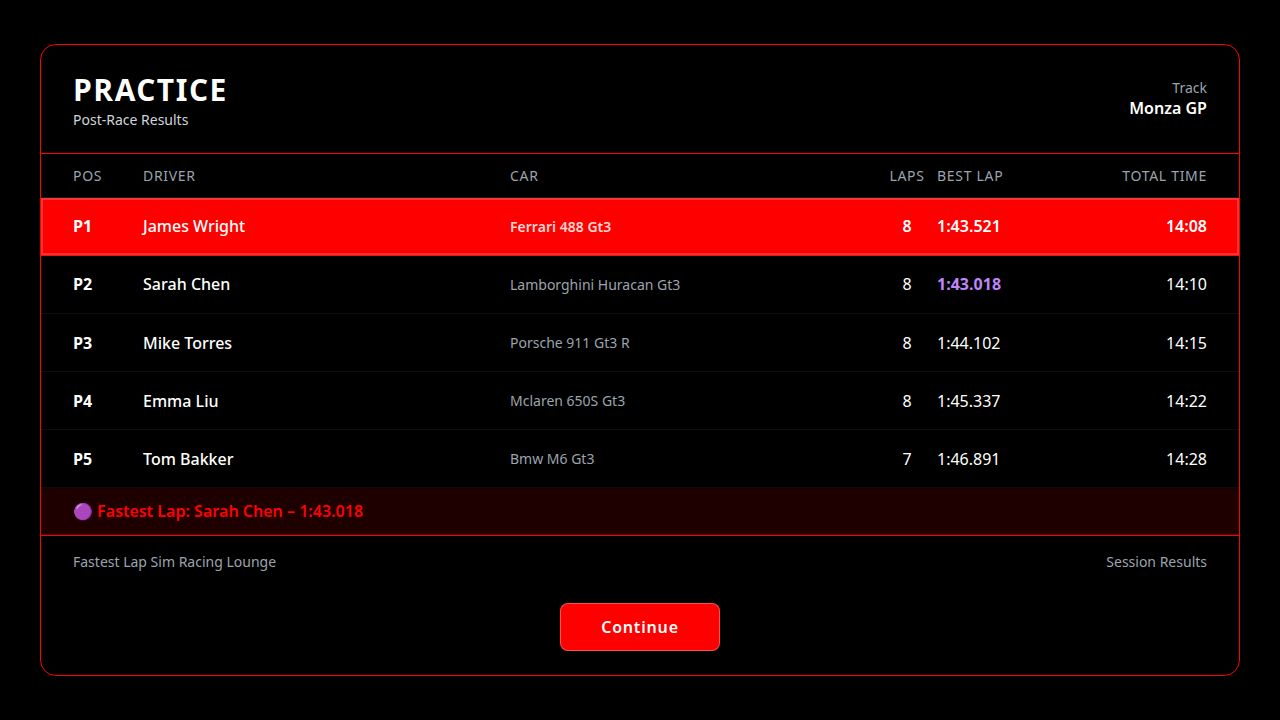
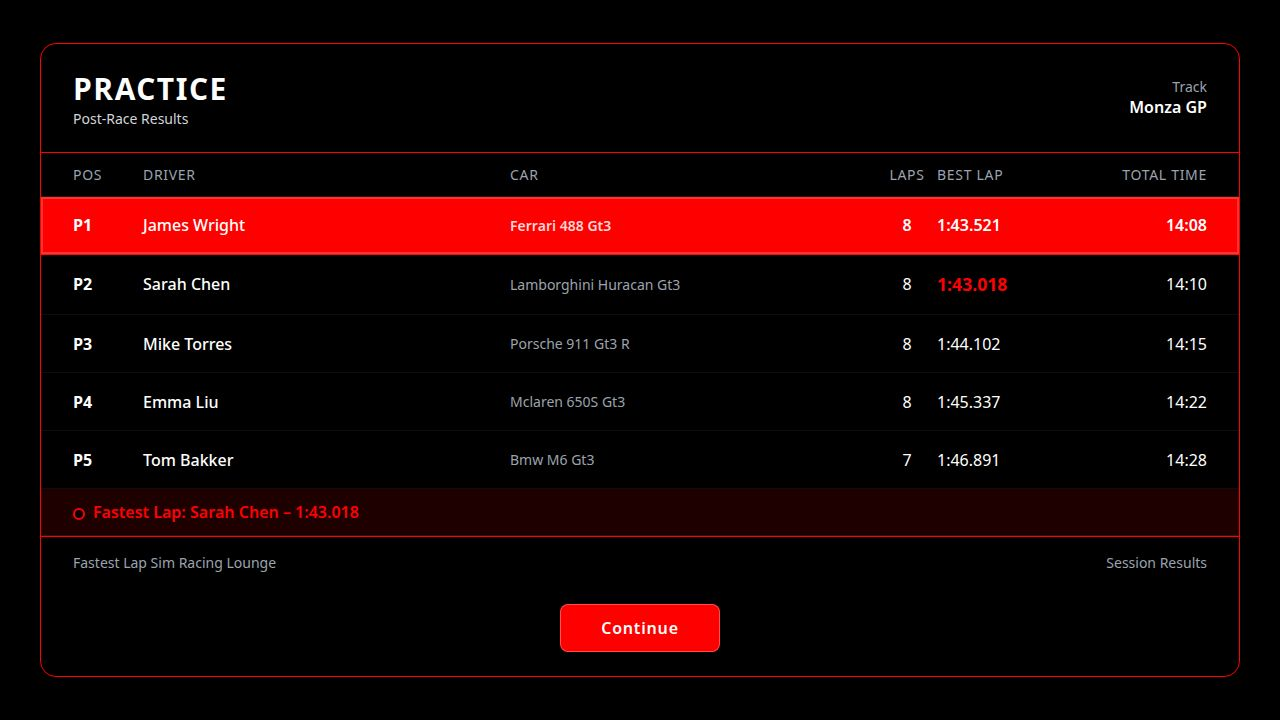
Update all results screens with custom fastest lap indicator and styling
Modify sim.html to replace the purple dot emoji with a styled black circle and red border for the fastest lap callout across all result screens.

Replit-Commit-Author: Agent
Replit-Commit-Session-Id: 5224433c-1af1-494f-ba8a-896445ec7928
Replit-Commit-Checkpoint-Type: full_checkpoint
Replit-Commit-Event-Id: ce9f3e3a-e9b8-4b27-a0c6-d4cb93b88658
Replit-Commit-Screenshot-Url: https://storage.googleapis.com/screenshot-production-us-central1/361f08f0-77af-4c86-bf00-a97db21ca46f/5224433c-1af1-494f-ba8a-896445ec7928/ECLVdJ9
Replit-Helium-Checkpoint-Created: true

diff --git a/controller/static/sim.html b/controller/static/sim.html
@@ -609,7 +609,7 @@
                 var calloutEl = document.getElementById('results-fastest-lap-callout');
                 if (calloutEl) {
                     if (fastestLapDriver && fastestLapTime) {
-                        calloutEl.textContent = '\u{1F7E3} Fastest Lap: ' + fastestLapDriver + ' \u2013 ' + fastestLapTime;
+                        calloutEl.innerHTML = '<span style="display:inline-block;width:12px;height:12px;background:#000;border:2px solid #FF0000;border-radius:50%;vertical-align:middle;margin-right:8px;"></span>Fastest Lap: ' + escapeHtml(fastestLapDriver) + ' \u2013 ' + escapeHtml(fastestLapTime);
                         calloutEl.style.display = 'block';
                     } else {
                         calloutEl.style.display = 'none';
